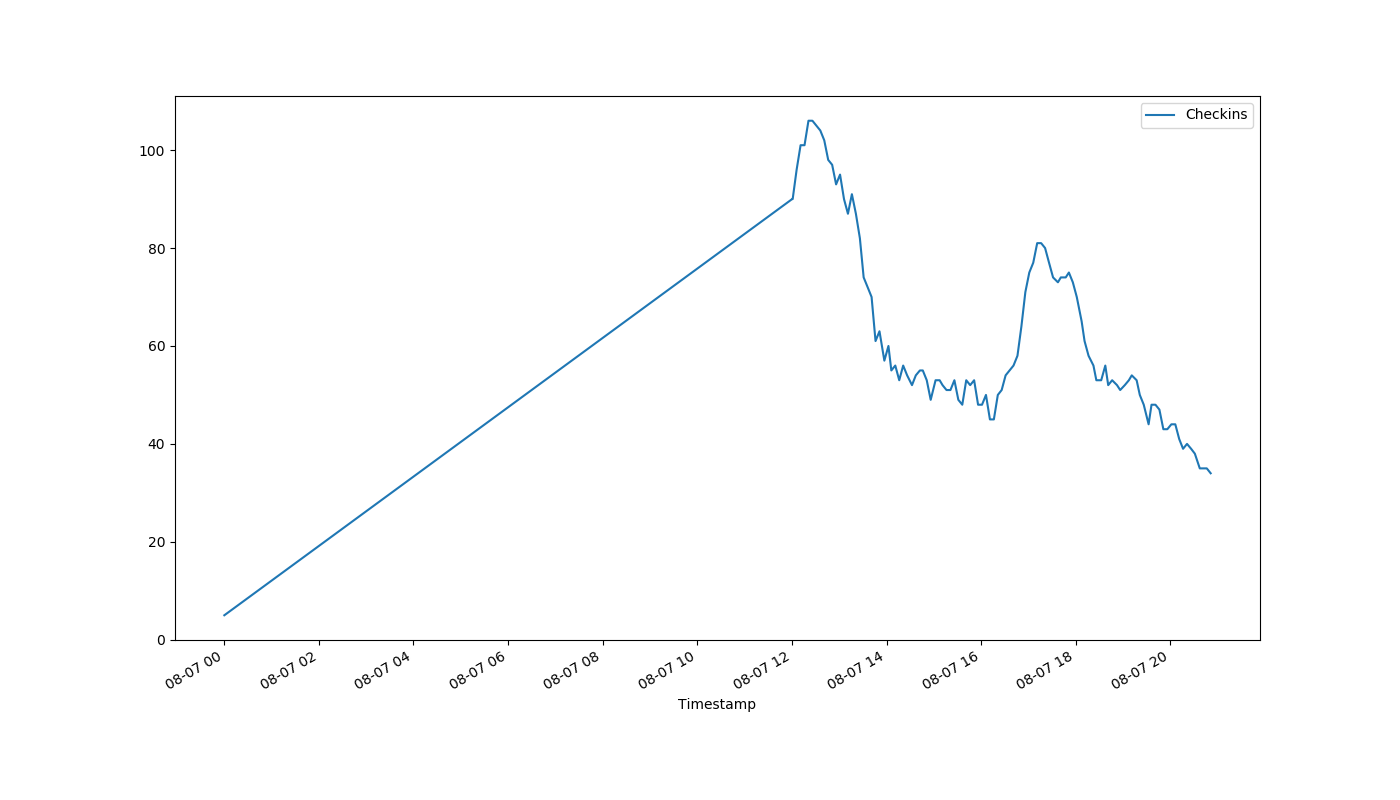
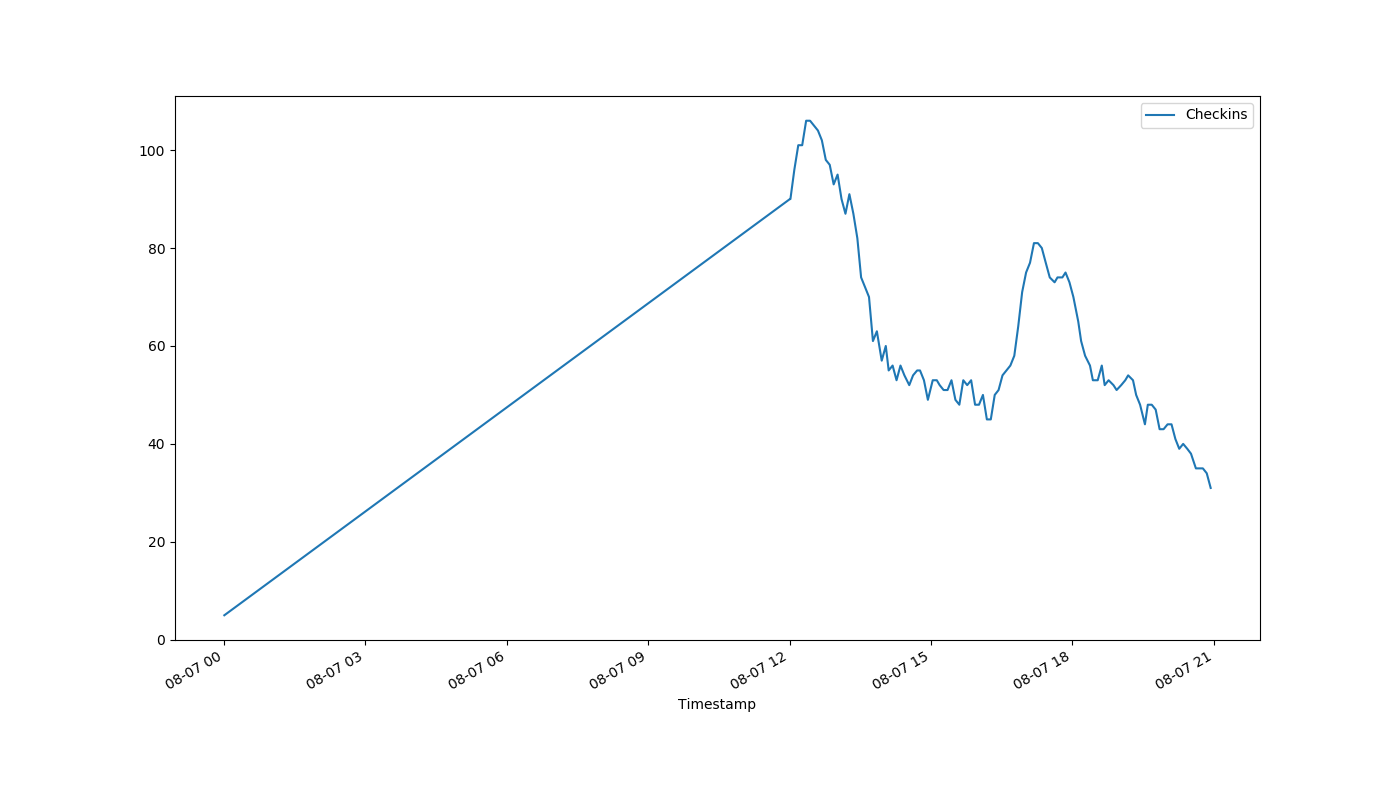
auto-Aug-07-20:57:44

diff --git a/index.html b/index.html
@@ -1,1 +1,1 @@
-<!DOCTYPE html><html><head><meta http-equiv="refresh" content="30"><link rel='stylesheet' href='holmcurrent.css'></head><body><p id='count'>34</p><div id='graph-wrap'><img id='graph' src='holmgraph-Aug-07.png'></div><p id='updated'>Last updated 20:51:10 / 20:51:05</p></body></html>
+<!DOCTYPE html><html><head><meta http-equiv="refresh" content="30"><link rel='stylesheet' href='holmcurrent.css'></head><body><p id='count'>31</p><div id='graph-wrap'><img id='graph' src='holmgraph-Aug-07.png'></div><p id='updated'>Last updated 20:56:10 / 20:56:06</p></body></html>
